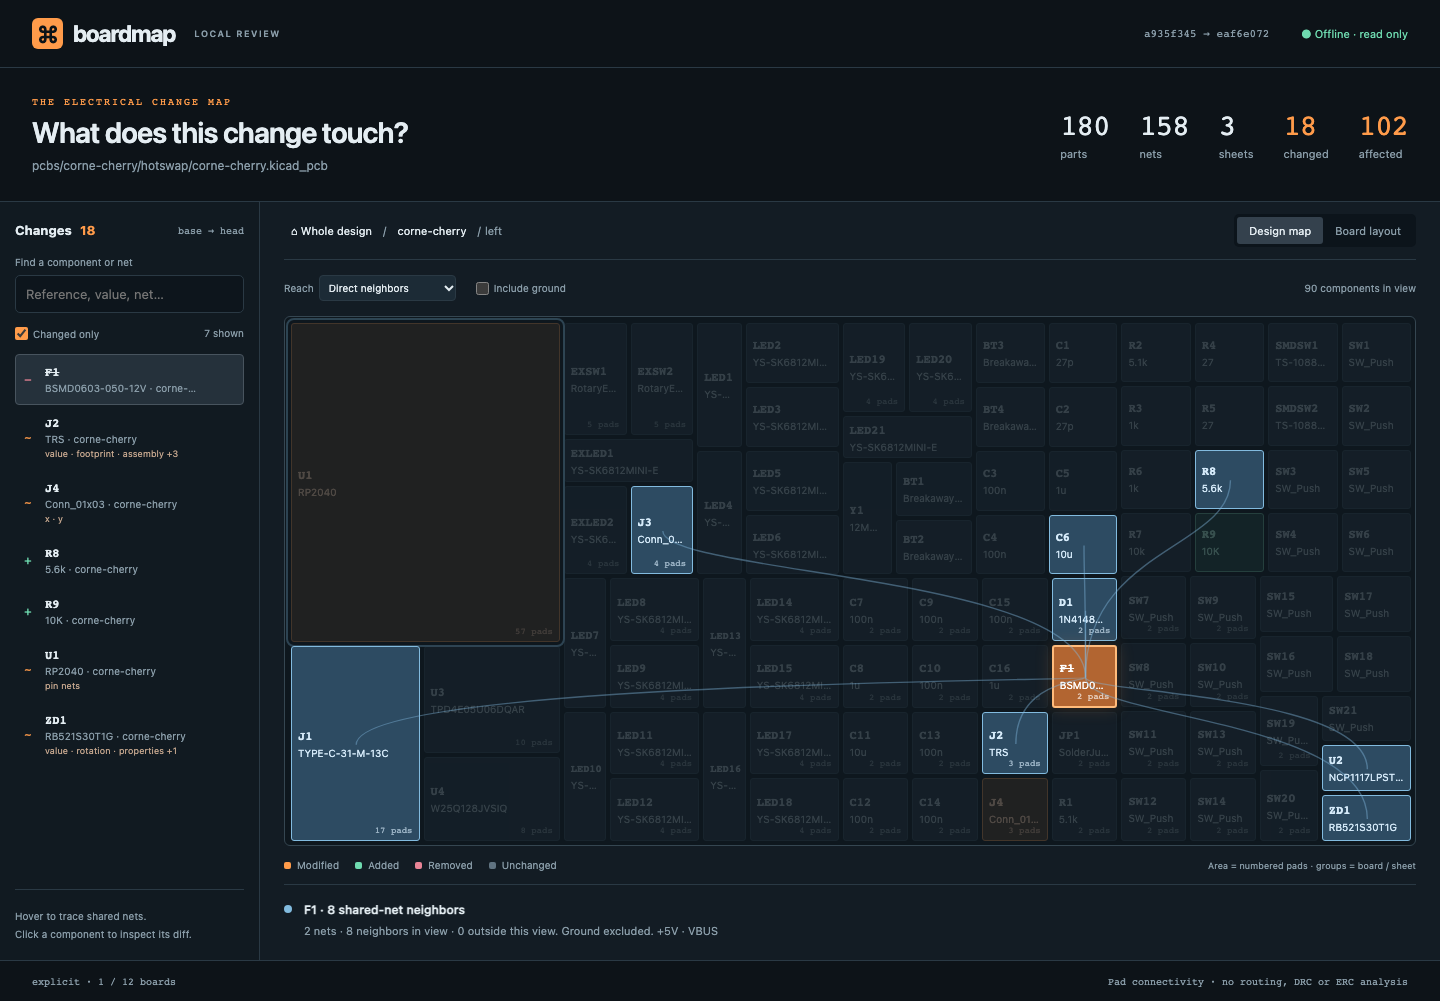
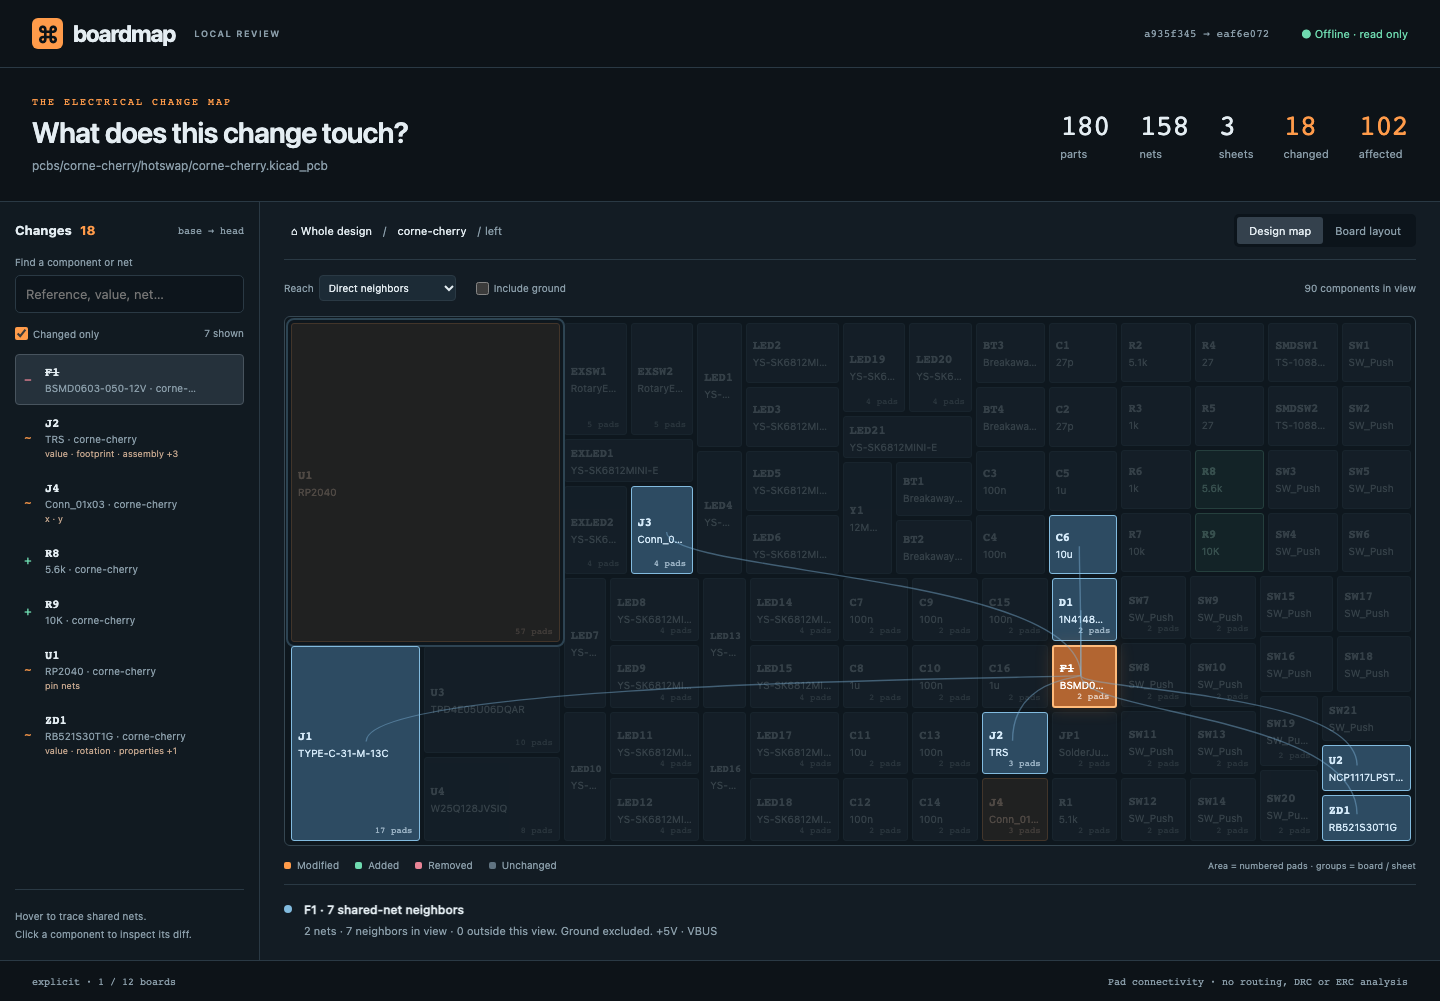
Trace only neighbors that shared a net in the same revision

diff --git a/src/compare.js b/src/compare.js
@@ -151,39 +151,37 @@ export function reach(
   id,
   { transitive = false, includeGround = false } = {},
 ) {
-  const links = new Map(),
-    byPart = new Map();
-  for (const [key, net] of Object.entries(report.nets)) {
+  const byPart = new Map();
+  for (const net of Object.values(report.nets)) {
     if (!includeGround && net.ground) continue;
-    const members = [...new Set([...net.before, ...net.after])];
-    links.set(key, members);
-    for (const member of members) {
-      if (!byPart.has(member)) byPart.set(member, []);
-      byPart.get(member).push(key);
+    for (const members of [net.before, net.after]) {
+      const link = { name: net.name, members };
+      for (const member of members) {
+        if (!byPart.has(member)) byPart.set(member, []);
+        byPart.get(member).push(link);
+      }
     }
   }
   const seen = new Set([id]),
     queue = [id],
     edges = [],
-    usedNets = new Set();
+    usedLinks = new Set(),
+    netNames = new Set();
   for (let i = 0; i < queue.length; i++) {
     const source = queue[i];
-    for (const key of byPart.get(source) ?? []) {
-      if (usedNets.has(key)) continue;
-      usedNets.add(key);
-      for (const target of links.get(key)) {
+    for (const link of byPart.get(source) ?? []) {
+      if (usedLinks.has(link)) continue;
+      usedLinks.add(link);
+      netNames.add(link.name);
+      for (const target of link.members) {
         if (seen.has(target)) continue;
         seen.add(target);
-        edges.push({ source, target, net: report.nets[key].name });
+        edges.push({ source, target, net: link.name });
         if (transitive) queue.push(target);
       }
     }
     if (!transitive) break;
   }
   seen.delete(id);
-  return {
-    ids: [...seen],
-    edges,
-    nets: [...usedNets].map((k) => report.nets[k].name),
-  };
+  return { ids: [...seen], edges, nets: [...netNames] };
 }

diff --git a/test/engine.test.js b/test/engine.test.js
@@ -378,3 +378,17 @@ test("a removed sheetmate reuses the rename proved by its surviving sheet UUID",
   assert.equal(report.parts.find((p) => p.ref === "R1").status, "unchanged");
   assert.equal(report.parts.find((p) => p.ref === "R2").status, "removed");
 });
+
+test("direct reach never invents neighbors from different revisions", () => {
+  const a = read(board(fp("R1", "A"), fp("R2", "B"), fp("C1", "A")));
+  const b = read(board(fp("R1", "B"), fp("R3", "A"), fp("C1", "A")));
+  const report = compare(a, b);
+  assert.deepEqual(reach(report, "main.kicad_pcb::R1").ids, [
+    "main.kicad_pcb::C1",
+  ]);
+  assert.deepEqual(reach(report, "main.kicad_pcb::R2").ids, []);
+  assert.deepEqual(
+    new Set(reach(report, "main.kicad_pcb::C1").ids),
+    new Set(["main.kicad_pcb::R1", "main.kicad_pcb::R3"]),
+  );
+});

diff --git a/README.md b/README.md
@@ -54,7 +54,7 @@ Each command fetches two pinned commits into a per-user cache, without a checkou
 
 | Source PR | Comparison | Head parts | Changed | Unchanged affected |
 | --- | --- | ---: | ---: | ---: |
-| [HackRF #1411, HackRF One r10](https://github.com/greatscottgadgets/hackrf/pull/1411) | `f6598e7b..3bdc5547`, changed board | 437 | 392 | 59 |
+| [HackRF #1411, HackRF One r10](https://github.com/greatscottgadgets/hackrf/pull/1411) | `f6598e7b..3bdc5547`, changed board | 437 | 390 | 61 |
 | [Corne #237, v4.1.0](https://github.com/foostan/crkbd/pull/237) | `a935f345..eaf6e072`, cherry board | 180 | 18 | 102 |
 
 The Corne PR changes both cherry and chocolate boards. Without `--board`, its report includes 360 head parts and 30 changed parts. The demo script selects cherry for a smaller review. See [all captures](docs/media), including HackRF and mobile layouts. Captures are actual Chromium runs, not mockups.
